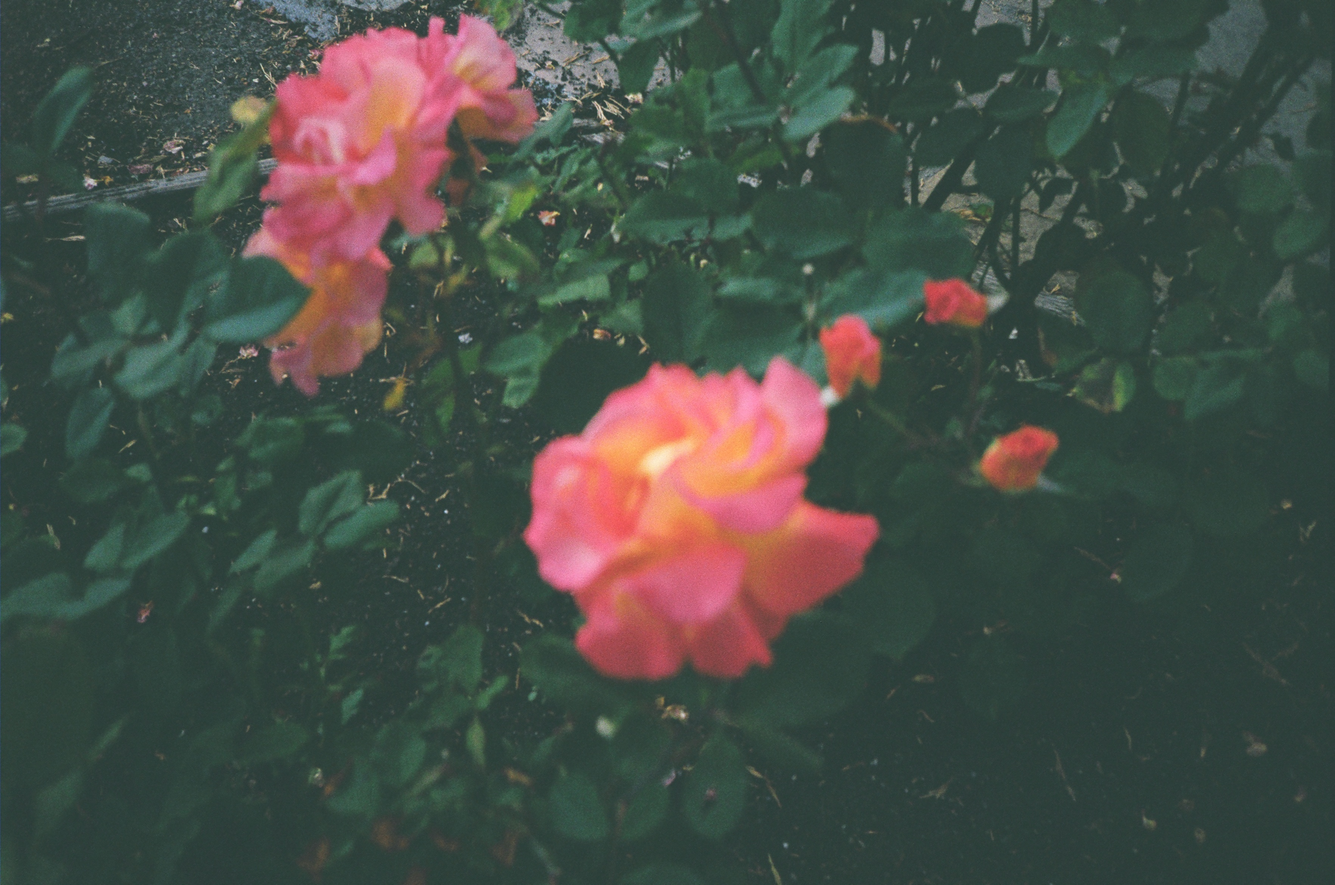
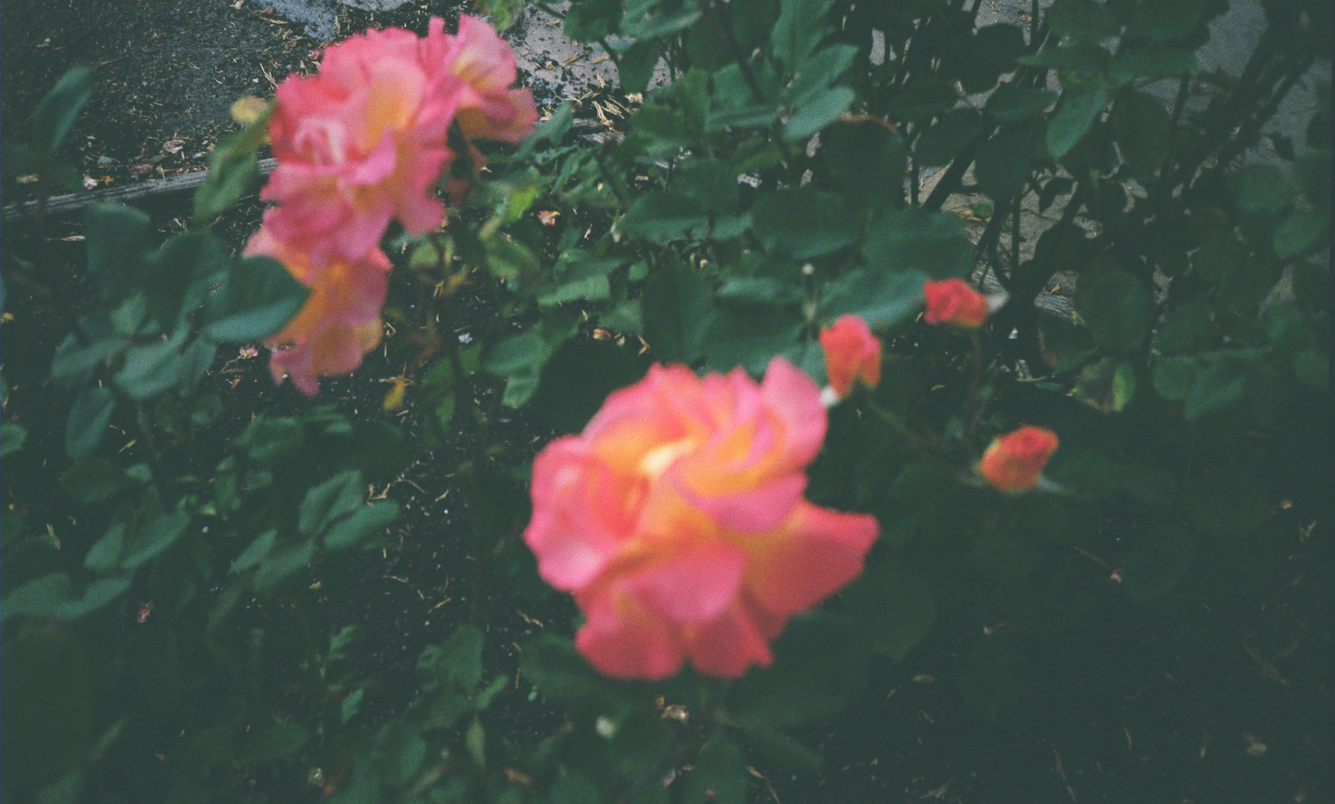
Styling the bottom half of the hero.

diff --git a/style.css b/style.css
@@ -3,6 +3,7 @@ font-family:'Helvetica', 'Arial', sans-serif
 }
 .hero {
     background-color: #fcf4cf;
+    padding-bottom: 150px;
 }
 
 .hero-top {
@@ -19,7 +20,7 @@ font-family:'Helvetica', 'Arial', sans-serif
 
 .logo {
     width: 50px;
-    padding: 0px 0px 0px 16px;
+    padding: 0px 0px 0px 0px;
     flex-shrink: 0;
 }
 
@@ -50,18 +51,31 @@ a {
     color: #181818;
 }
 
+.hero-bottom {
+    display: flex;
+    justify-content: center;
+    align-items: flex-end;
+    gap: 16px;
+    margin-top: 50px;
+}
+
+.hero .left {
+    display: flex;
+    flex-flow: column wrap;
+    align-items: flex-start;
+    width: 500px;
+}
+
 .hero-title {
     font-size: 48px;
     font-weight: bold;
-}
-
-.hero-bottom {
-    display: flex;
+    margin: 16px;
 }
 
 .subtext {
     font-size: 18px;
     color: #181818;
+    margin: 16px;
 }
 
 .button {
@@ -73,6 +87,6 @@ a {
 }
 
 .hero-image {
-    width: 500px;
+    width: 400px;
 
 }

diff --git a/index.html b/index.html
@@ -22,12 +22,12 @@
             </div>
             <div class="hero-bottom">
                 <div class="left">
-                    <p class="hero-title">fleur means flower</p>
+                    <p class="hero-title">Fleur means flower</p>
                     <p class="subtext">Will somebody wear me to the fair?
                         Will a lady pin me in her hair?
                         Will a child find me by a stream?
                         Kiss my petals, weave me through a dream.</p>
-                    <a class="button" href="https://youtu.be/g1kDd6yBQZ4">listen</a>
+                    <a class="button" href="https://youtu.be/g1kDd6yBQZ4">Listen</a>
                 </div>
                 <img class="hero-image" src="./images/rose.JPG">
             </div>
